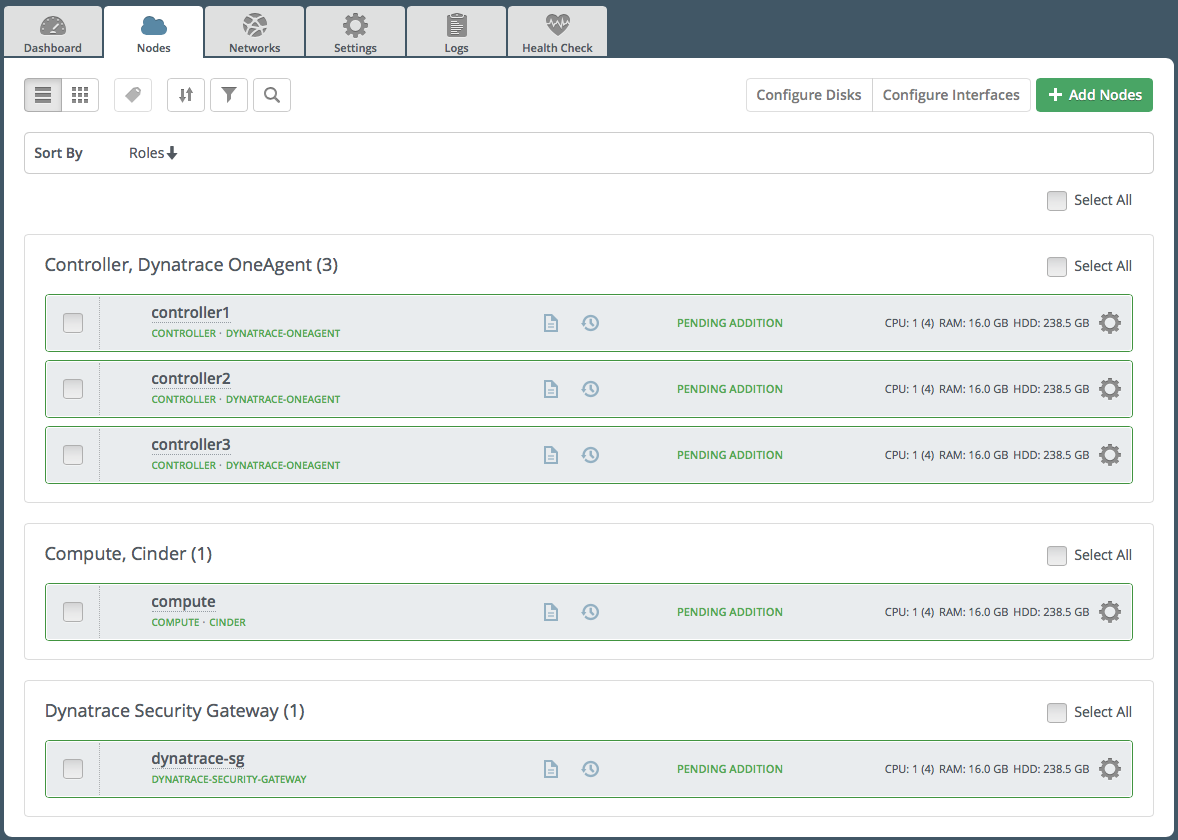
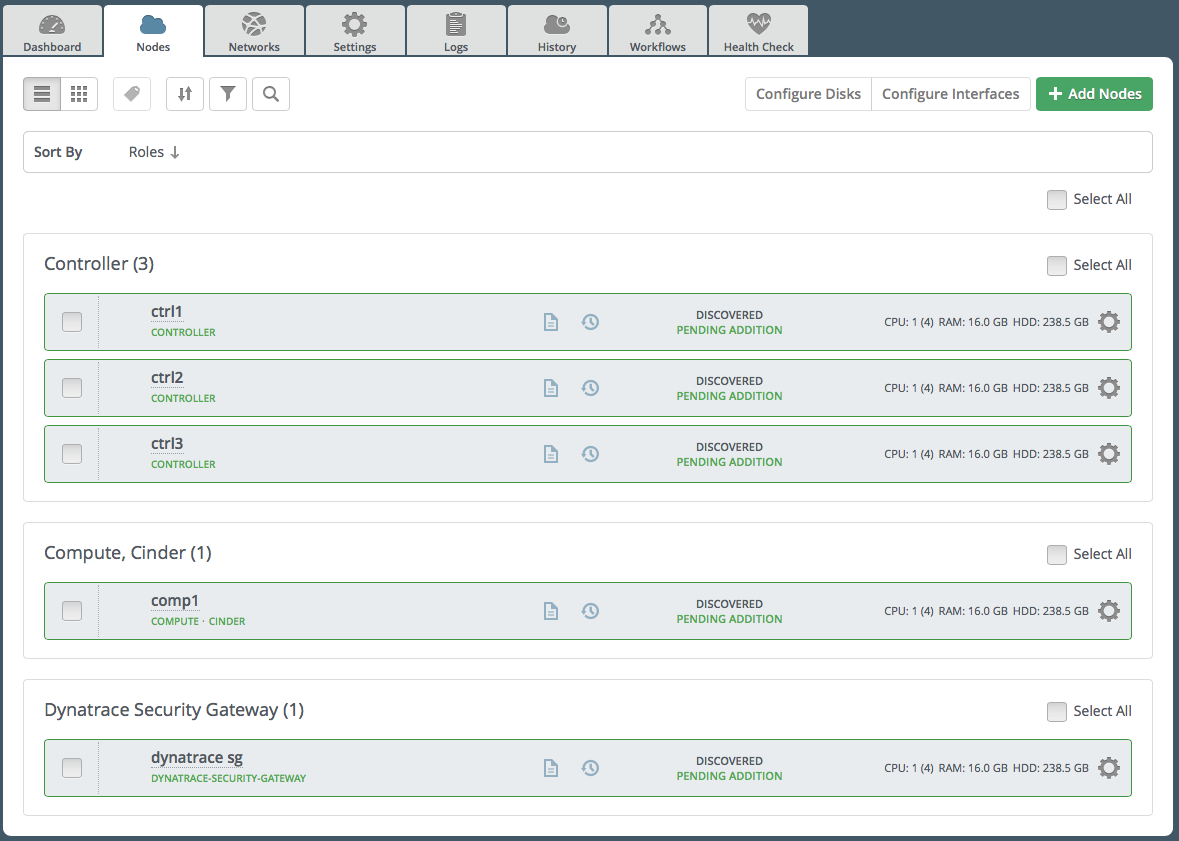
updated plugin documentation, qa documentation, and test report

diff --git a/doc/qa/source/systemtesting.rst b/doc/qa/source/systemtesting.rst
@@ -15,9 +15,9 @@ Steps           1. Install plugin using Fuel CLI, refer to the `Installation
                    fuel-docs/userdocs/fuel-install-guide/plugins/plugins_ins
                    tall_plugins.html>`_
                 #. Create environment with enabled plugin in Fuel Web UI
-                #. Add 3 controller nodes and apply the Dynatrace OneAgent 
-                   role to all 3, 1 compute node, and 1 Dynatrace Security 
-                   Gateway node
+                #. Add 3 controller nodes and apply the Controller role to 
+                   all 3, 1 compute node, and 1 Dynatrace Security Gateway 
+                   node
                 #. Run network verification
                 #. Deploy the cluster
                 #. Verify there were no error messages during the deployment
@@ -43,7 +43,7 @@ Steps           1. Install plugin using Fuel CLI, refer to the `Installation
                    fuel-docs/userdocs/fuel-install-guide/plugins/plugins_ins
                    tall_plugins.html>`_
                 #. Create environment with enabled plugin in Fuel Web UI
-                #. Add 3 controller nodes and apply the Dynatrace OneAgent 
+                #. Add 3 controller nodes and apply the Controller 
                    role to all 3, 1 compute node, and 1 Dynatrace Security 
                    Gateway node
                 #. Run network verification
@@ -79,7 +79,7 @@ Steps           1. Install plugin using Fuel CLI, refer to the `Installation
                    fuel-docs/userdocs/fuel-install-guide/plugins/plugins_ins
                    tall_plugins.html>`_
                 #. Create environment with enabled plugin in Fuel Web UI
-                #. Add 3 controller nodes and apply the Dynatrace OneAgent 
+                #. Add 3 controller nodes and apply the Controller 
                    role to all 3, 1 compute node, and 1 Dynatrace Security 
                    Gateway node
                 #. Run network verification
@@ -115,7 +115,7 @@ Steps           1. Install plugin using Fuel CLI, refer to the `Installation
                    fuel-docs/userdocs/fuel-install-guide/plugins/plugins_ins
                    tall_plugins.html>`_
                 #. Create environment with enabled plugin in Fuel Web UI
-                #. Add 3 controller nodes and apply the Dynatrace OneAgent 
+                #. Add 3 controller nodes and apply the Controller 
                    role to all 3, 1 compute node, and 1 Dynatrace Security 
                    Gateway node
                 #. Run network verification
@@ -149,7 +149,7 @@ Steps           1. Install plugin using Fuel CLI, refer to the `Installation
                    fuel-docs/userdocs/fuel-install-guide/plugins/plugins_ins
                    tall_plugins.html>`_
                 #. Create environment with enabled plugin in Fuel Web UI
-                #. Add 3 controller nodes and apply the Dynatrace OneAgent 
+                #. Add 3 controller nodes and apply the Controller 
                    role to all 3, 1 compute node, and 1 Dynatrace Security 
                    Gateway node
                 #. Run network verification
@@ -165,7 +165,46 @@ Expected Result Plugin is installed successfully. The cluster is created and
                 default state, no output for command "fuel plugins --list").
 =============== =====
 
+**Verify hot-pluggable functionality of the plugin**
 
+=============== =====
+Test Case ID    hot_pluggable_plugin
+--------------- -----
+Steps           1. Install plugin using Fuel CLI, refer to the `Installation
+                   Guide <http://docs.openstack.org/developer/fuel-docs/user
+                   docs/fuel-install-guide/plugins/plugins_install_plugins.h
+                   tml>`_
+                #. Ensure plugin is successfully installed, as in the 
+                   `Installation Guide <http://docs.openstack.org/developer/
+                   fuel-docs/userdocs/fuel-install-guide/plugins/plugins_ins
+                   tall_plugins.html>`_
+                #. Create environment with disabled plugin in Fuel Web UI
+                #. Add 1 controller node and apply the Controller 
+                   role and 1 compute node
+                #. Run network verification
+                #. Deploy the cluster
+                #. Verify there were no error messages during the deployment
+                #. Run health check
+                #. Verify that no Dynatrace processes are running on either
+                   the controller node, nor the compute node
+                #. Enable the plugin and fill out mandatory fields
+                #. Add 2 controller nodes and 1 Dynatrace Security Gateway
+                   node
+                #. Run network verification
+                #. Redeploy the cluster
+                #. Verify there were no error messages during the deployment
+                #. Run health check
+                #. Verify that Dynatrace OneAgent is running on all
+                   controller nodes
+--------------- -----
+Expected Result Plugin is installed successfully. When the plugin is disabled
+                no Dynatrace component is installed. It's possible to 
+                redeploy the cluster with the plugin activated. Then the 
+                Dynatrace OneAgent is installed on the controller nodes, the 
+                Dynatrace Security Gateway is setup successfully. All OSTF 
+                tests pass. Environment is deployed successfully. The 
+                environment is redeployed successfully when adding nodes.
+=============== =====
 
 
 

diff --git a/doc/user/source/overview.rst b/doc/user/source/overview.rst
@@ -1,30 +1,30 @@
 Overview 
 -------- 
 Dynatrace is the innovator behind the industry’s premier
-Digital Performance Platform. Gartner had recognized Dynatrace as APM leader now
-for 6 consecutive years. More than 8,000 customers trust Dynatrace. Our
+Digital Performance Platform. Gartner had recognized Dynatrace as APM leader 
+now for 6 consecutive years. More than 8,000 customers trust Dynatrace. Our
 experience and knowledge has been bundled to develop a new generation of
 monitoring software. Dynatrace digital performance monitoring covers web scale
 application environments down to each individual transaction – with no gaps
 or blind spots – including front end, application performance, infrastructure,
 containers, and cloud platforms, like OpenStack.
 
-The Dynatrace Fuel plugin introduces two new node roles called *Dynatrace
-OneAgent* and *Dynatrace Security Gateway*. In order to work properly you need
-an active Dynatrace account (free trial also works) and access to your SaaS
-account or a Dynatrace Managed node/cluster on premise.
+The Dynatrace Fuel plugin install the *Dynatrace OneAgent* on all controller
+nodes and introduces a new node role called *Dynatrace Security 
+Gateway*. In order to work properly you need an active Dynatrace account (free
+trial also works) and access to your SaaS account or a Dynatrace Managed 
+node/cluster on premise.
 
 * Dynatrace OneAgent
-The *Dynatrace OneAgent* role must be applied to all nodes
-in your environment that have the Controller role. The OneAgent instruments the
-OpenStack services and also the supporting services like MySQL, RabbitMQ,
-Memcached, HAproxy, ... and sends all monitoring and log data to the node with 
+The *Dynatrace OneAgent* is automatically installed on all controller nodes,
+as soon as the plugin is activated. The OneAgent instruments the OpenStack 
+services and also the supporting services like MySQL, RabbitMQ, Memcached, 
+HAproxy, ... and sends all monitoring and log data to the node with 
 *Dynatrace Security Gateway* role. 
 
 * Dynatrace Security Gateway 
-The *Dynatrace Security Gateway* role must be
-applied to a standalone physical machine, where no other OpenStack service is
-running. If you plan to use Dynatrace for monitoring your applications that run
-on top of OpenStack as well, you need to make sure that the VMs where the
-Dynatrace OneAgent is installed have network access to the *Dynatrace Security
-Gateway* node.
+The *Dynatrace Security Gateway* role must be applied to a standalone physical
+machine, where no other OpenStack service is running. If you plan to use 
+Dynatrace for monitoring your applications that run on top of OpenStack as 
+well, you need to make sure that the VMs where the Dynatrace OneAgent is 
+installed have network access to the *Dynatrace Security Gateway* node.

diff --git a/doc/qa/source/overview.rst b/doc/qa/source/overview.rst
@@ -1,24 +1,24 @@
 Overview 
 ======== 
-The Dynatrace Fuel plugin introduces two new node roles called *Dynatrace
-OneAgent* and *Dynatrace Security Gateway*. In order to work properly you need
-an active Dynatrace account (free trial also works) and access to your SaaS
-account or a Dynatrace Managed node/cluster on premise.
+The Dynatrace Fuel plugin install the *Dynatrace OneAgent* on all controller
+nodes and introduces a new node role called *Dynatrace Security 
+Gateway*. In order to work properly you need an active Dynatrace account (free
+trial also works) and access to your SaaS account or a Dynatrace Managed 
+node/cluster on premise.
 
 * Dynatrace OneAgent
-The *Dynatrace OneAgent* role must be applied to all nodes
-in your environment that have the Controller role. The OneAgent instruments the
-OpenStack services and also the supporting services like MySQL, RabbitMQ,
-Memcached, HAproxy, ... and sends all monitoring and log data to the node with 
+The *Dynatrace OneAgent* is automatically installed on all controller nodes,
+as soon as the plugin is activated. The OneAgent instruments the OpenStack 
+services and also the supporting services like MySQL, RabbitMQ, Memcached, 
+HAproxy, ... and sends all monitoring and log data to the node with 
 *Dynatrace Security Gateway* role. 
 
 * Dynatrace Security Gateway 
-The *Dynatrace Security Gateway* role must be
-applied to a standalone physical machine, where no other OpenStack service is
-running. If you plan to use Dynatrace for monitoring your applications that run
-on top of OpenStack as well, you need to make sure that the VMs where the
-Dynatrace OneAgent is installed have network access to the *Dynatrace Security
-Gateway* node.
+The *Dynatrace Security Gateway* role must be applied to a standalone physical
+machine, where no other OpenStack service is running. If you plan to use 
+Dynatrace for monitoring your applications that run on top of OpenStack as 
+well, you need to make sure that the VMs where the Dynatrace OneAgent is 
+installed have network access to the *Dynatrace Security Gateway* node.
 
 Developer's specification
 -------------------------

diff --git a/doc/qa-report/source/results.rst b/doc/qa-report/source/results.rst
@@ -2,13 +2,13 @@ Test results summary
 ====================
 
 +-----------------------------------------+------+
-|Total quantity of executed test cases    |     5|
+|Total quantity of executed test cases    |     6|
 +-----------------------------------------+------+
 |Total quantity of not executed test cases|     0|
 +-----------------------------------------+------+
 |Quantity of automated test cases         |     0|
 +-----------------------------------------+------+
-|Quantity of not automated test cases     |     5|
+|Quantity of not automated test cases     |     6|
 +-----------------------------------------+------+
 
 Detailed test results
@@ -27,7 +27,9 @@ Detailed test results
 +-------+--------------------------------------------+------+------+-------+
 |5      |uninstall_plugin                            |X     |      |       |
 +-------+--------------------------------------------+------+------+-------+
-|Total                                               |5     |0     |0      |
+|6      |hot_pluggable_plugin                        |X     |      |       |
++-------+--------------------------------------------+------+------+-------+
+|Total                                               |6     |0     |0      |
 +-------+--------------------------------------------+------+------+-------+
 |Total %                                             |100%  |      |       |
 +-------+--------------------------------------------+------+------+-------+

diff --git a/doc/user/source/limitations.rst b/doc/user/source/limitations.rst
@@ -1,3 +1,13 @@
 Limitations
 -----------
-None.
+
+The node with the *Dynatrace Security Gateway* role needs to have network 
+access to either the Dynatrace Managed cluster or the Dynatrace SaaS 
+endpoint. Furthermore, if you want to monitor your applications that run on
+top of OpenStack as well, you need to install the *Dynatrace OneAgent* in
+your workloads and you need to make sure, that the *Dynatrace OneAgent* has
+network access to the node with the *Dynatrace Security Gateway* role.
+
+Find more information about the necessary configuration steps here:
+ `Dynatrace Security Gateway Help <https://help.dynatrace.com/get-started/install/how-do-i-install-dynatrace-security-gateway//>`_
+ 

diff --git a/doc/user/source/installationGuide.rst b/doc/user/source/installationGuide.rst
@@ -39,7 +39,7 @@ of your Dynatrace environment (Settings > Other > Dynatrace).
 
 .. image:: images/9yl01.png
 
-4. Add nodes and assign the *Dynatrace OneAgent* role to all controller nodes.
+4. Add nodes and assign the Controller role to all controller nodes.
 Assign the *Dynatrace Security Gateway* role to a node and don't assign any 
 other roles to that node. Sample node configuration is provided below.
 
